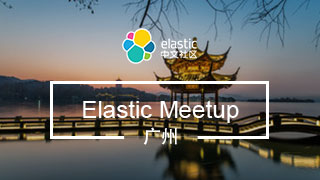
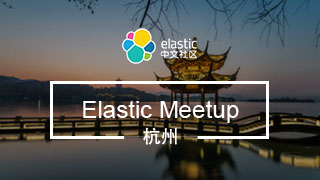
新增杭州4.27活动

diff --git a/event/hangzhou/1002.html b/event/hangzhou/1002.html
@@ -1,0 +1,253 @@
+<!DOCTYPE html>
+<html lang="zh-CN">
+<head>
+    <meta charset="utf-8">
+    <meta http-equiv="X-UA-Compatible" content="IE=edge,Chrome=1">
+    <meta name="viewport" content="width=device-width, initial-scale=1">
+    <meta name="renderer" content="webkit">
+    <meta name="keywords" content="Elastic Meetup 线下活动 elasticsearch Elastic 中文社区">
+    <meta name="description" content="Elastic Meetup 由 Elastic 中文社区(https://elasticsearch.cn/) 每年定期举办的线下交流活动，主要围绕 Elastic 的开源产品（Elasticsearch、Logstash、Kibana 和 Beats）及周边技术，探讨在搜索、数据实时分析、日志分析、安全等领域的实践与应用。">
+    <link rel="shortcut icon" type="image/png" href="/static/images/logo/elastic-logo-32x32.png">
+    <title>【杭州】Elastic&有赞科技 2019-04-27 - 活动详情页</title>
+
+    <link href="/static/bootstrap/css/bootstrap.min.css" rel="stylesheet">
+    <link href="/static/css/common.css" rel="stylesheet">
+    <link href="/static/css/event/detail.css" rel="stylesheet">
+
+    <!--[if lt IE 9]>
+    <script src="//cdn.bootcss.com/html5shiv/3.7.2/html5shiv.min.js"></script>
+    <script src="//cdn.bootcss.com/respond.js/1.4.2/respond.min.js"></script>
+    <![endif]-->
+</head>
+<body>
+<!-- 导航 start -->
+<nav class="navbar navbar-default navbar-custom navbar-white">
+    <div class="container">
+        <div class="navbar-header">
+            <button type="button" class="navbar-toggle collapsed" data-toggle="collapse" data-target="#navbar" aria-expanded="false" aria-controls="navbar">
+                <span class="icon-bar"></span>
+                <span class="icon-bar"></span>
+                <span class="icon-bar"></span>
+            </button>
+            <a class="navbar-brand elastic-logo" href="/">
+                <span>Elastic Meetup</span>
+            </a>
+        </div>
+        <div id="navbar" class="collapse navbar-collapse">
+            <ul class="nav navbar-nav navbar-right">
+                <li><a href="/event/index.html">首页</a></li>
+                <li><a href="/event/plan/index.html">年度计划</a></li>
+                <li><a href="/event/organizer.html">社区组织者</a></li>
+                <li><a href="/event/speaker/index.html">讲师榜单</a></li>
+                <li><a href="/event/about.html">关于我们</a></li>
+            </ul>
+        </div>
+    </div>
+</nav>
+<!-- 导航 end -->
+<div class="container event">
+    <div class="row">
+        <div class="col-md-9 left-side">
+            <div class="row item event-intro">
+                <div class="col-md-6">
+                    <div class="event-img">
+                        <img src="/static/images/city/hangzhou/hangzhou.jpg">
+                    </div>
+                </div>
+                <div class="col-md-6">
+                    <div class="event-content">
+                        <h3>【杭州】Elastic&有赞科技</h3>
+                        <div class="c-item">
+                            <span class="text-span">状态：</span>
+                            <span class="label label-info">主题征集中</span>
+                        </div>
+                        <div class="c-item">
+                            <span class="text-span">时间：</span>
+                            <span>2019-04-27</span>
+                        </div>
+                        <div class="c-item">
+                            <span class="text-span">地点：</span>
+                            <span>待定</span>
+                            <!--<a href="#mapContainer">-->
+                                <!--查看地图-->
+                            <!--</a>-->
+                        </div>
+                        <div class="c-item">
+                            <span class="text-span">费用：</span>
+                            <span>免费</span>
+                        </div>
+                        <div class="c-item">
+                            <span class="text-span">人数：</span>
+                            <span>限额100人</span>
+                        </div>
+                        <div class="c-item btn-gp">
+                            <!--<a href="javascript:void(0)" class="btn btn-default disabled">活动未开始</a>-->
+                            <!--<a target="_blank" href="http://www.huodongxing.com/event/5468520942500" class="btn btn-primary">立即报名</a>-->
+                            <a href="javascript:void(0)" class="btn btn-primary" onclick="alert('请联系活动组织者!')">演讲申请</a>
+                            <a target="_blank" href="http://elasticsearch.mikecrm.com/L5KnKcG" class="btn btn-primary">赞助合作</a>
+                            <!--<a href="javascript:void(0)" class="btn btn-danger">志愿者申请</a>-->
+                        </div>
+                    </div>
+                </div>
+            </div>
+            <!--主题介绍-->
+            <div class="row item">
+                <div class="col-md-12">
+                    <div class="title">
+                        <h3>主题介绍</h3>
+                    </div>
+                    <div class="des">
+                        <p>Elastic中文社区联合有赞科技，将于2019年4月27日，在杭州举办一次线下技术交流活动。 本次活动交流内容主要围绕Elastic的开源产品（Elasticsearch、Logstash、Kibana 和 Beats）及周边技术，探讨在搜索、数据实时分析、日志分析、安全等领域的实践与应用。 活动分享主题正火热征集中！</p>
+
+                        <p>有意参与本次主题分享的同学，请发送邮件至<strong>694851355@qq.com</strong>，并提供如下信息:</p>
+
+                        <p><strong>1.个人简介及联系方式（微信号、电话等均可）</strong></p>
+
+                        <p><strong>2.分享主题</strong></p>
+
+                        <p><strong>3.内容提纲</strong></p>
+
+                        <p>为确保本次活动的紧凑，分享主题将控制在5个以内。 部分同学提交的内容可能无法安排进本次活动日程，但我们将保留所有提交的主题，并尽力安排在后续的线下活动进行分享。</p>
+
+                        <p><strong>活动时间:</strong>  2019年3月30日</p>
+
+                        <p><strong>活动地址:</strong>  广州市海珠区唯品同创汇hobby lab cafe爱好者研究所</p>
+
+
+                    </div>
+                </div>
+            </div>
+            <!--嘉宾介绍-->
+            <div class="row item">
+                <div class="col-md-12">
+                    <div class="title">
+                        <h3>嘉宾介绍</h3>
+                    </div>
+                    <div class="des">
+                        <p>待更新</p>
+                    </div>
+                </div>
+            </div>
+            <!--活动安排-->
+            <div class="row item">
+                <div class="col-md-12">
+                    <div class="title">
+                        <h3>活动安排</h3>
+                    </div>
+                    <div class="des">
+                        <p>待更新</p>
+                    </div>
+                </div>
+            </div>
+            <!--注意事项-->
+            <div class="row item">
+                <div class="col-md-12">
+                    <div class="title">
+                        <h3>注意事项</h3>
+                    </div>
+                    <div class="des">
+                        <p>1.本次活动限额100人</p>
+                        <!--<p>2.本次活动是下午场，请已报名的同学准时参加</p>-->
+                    </div>
+                </div>
+            </div>
+            <!--合作伙伴-->
+            <div class="row item">
+                <div class="col-md-12">
+                    <div class="title">
+                        <h3>合作伙伴</h3>
+                    </div>
+                    <div class="des">
+                        <div class="sponsor">
+                            <h4>主办方</h4>
+                            <ul>
+                                <li>
+                                    <a target="_blank" href="https://elasticsearch.cn">
+                                        <img src="/static/images/sponsors/elastic_cn.jpg" title="Elastic中文社区">
+                                    </a>
+                                </li>
+                                <li>
+                                    <a target="_blank" href="https://www.youzan.com">
+                                        <img src="/static/images/sponsors/youzan.png" title="有赞科技">
+                                    </a>
+                                </li>
+                            </ul>
+                        </div>
+                        <div class="sponsor">
+                            <h4>合作伙伴</h4>
+                            <ul>
+                                <li>
+                                    <p>待更新</p>
+                                </li>
+                            </ul>
+                        </div>
+                    </div>
+                </div>
+            </div>
+            <!--活动精彩瞬间-->
+
+            <!--地点路线-->
+            <div class="row item">
+                <div class="col-md-12">
+                    <div class="title">
+                        <h3>地点路线</h3>
+                    </div>
+                    <div class="des">
+                        <p class="map-address-city" style="display: none">杭州市</p>
+                        <p class="map-address-des">待定</p>
+                        <!--<div class="map" id="mapContainer"></div>-->
+                    </div>
+                </div>
+            </div>
+        </div>
+        <div class="col-md-3 right-side">
+            <div class="panel-block bg-white">
+                <h4 class="text-center">分享，交流，成长！</h4>
+                <p>知识越与人共享，它的价值越增加。</p>
+                <div class="text-center">
+                    <a class="btn btn-primary signup-share" target="_blank" href="http://elasticsearch.mikecrm.com/A6QbFvU">报名分享</a>
+                </div>
+            </div>
+            <div class="panel-block bg-white">
+                <h4 class="text-center">活动组织者</h4>
+                <div class="media">
+                    <div class="media-left">
+                        <a class="media-avatar" href="javascript:void(0);">
+                            <img class="media-object" src="/static/images/organizer/wx.jpg" >
+                        </a>
+                    </div>
+                    <div class="media-body">
+                        <h4 class="media-heading">汪兴</h4>
+                        <div>微信：<strong>13588245335</strong></div>
+                        <div>邮箱：<strong>694851355@qq.com</strong></div>
+                    </div>
+                </div>
+                <p>简介：从前端到移动端到后台到大数据到业务到框架，回看了自己的路程，不一定非常深入，但是充满了故事，有故事的技术之路才会好玩才会精彩。</p>
+
+            </div>
+            <!--<div class="panel-block bg-white ad">-->
+                <!--<a target="_blank" title="2018 Elastic 中国开发者大会" href="https://conf.elasticsearch.cn/2018/shenzhen.html">-->
+                    <!--<img src="/static/images/ad/elastic_2018.png">-->
+                <!--</a>-->
+            <!--</div>-->
+        </div>
+    </div>
+</div>
+<!-- 底部 start -->
+<footer class="footer">
+    <div class="container">
+        Copyright © <script>document.write(new Date().getFullYear());</script> <span> · <a href="https://elasticsearch.cn/" target="blank">Elastic中文社区</a></span>
+    </div>
+</footer>
+<!-- 底部 end -->
+
+<script src="/static/bootstrap/js/jquery.min.js"></script>
+<script src="/static/bootstrap/js/bootstrap.min.js"></script>
+<!--<script type="text/javascript" src="//api.map.baidu.com/api?v=3.0&ak=DDU325vxk16zPn6DKlS6Qffx"></script>-->
+<!--<script src="/static/js/map.js"></script>-->
+<script>
+    // $('.carousel').carousel();
+</script>
+
+</body>
+</html>

diff --git a/event/index.html b/event/index.html
@@ -143,6 +143,24 @@
                 </div>
             </div>
         </div>
+        <div class="col-xs-12 col-sm-6 col-md-3">
+            <div class="thumbnail">
+                <a href="hangzhou/1002.html"><img src="/static/images/city/hangzhou/hangzhou.jpg"></a>
+                <div class="caption">
+                    <h4><a href="hangzhou/1002.html">【杭州】Elastic&有赞科技</a></h4>
+                    <div class="single-line">时间：<strong>2019-04-27</strong></div>
+                    <div class="single-line">地点：待定</div>
+                    <div class="event-state">
+                        状态：
+                        <!--<span class="label label-default">活动未开始</span>-->
+                        <span class="label label-info">主题征集中</span>
+                        <!--<span class="label label-success">活动报名中</span>-->
+                        <a class="btn btn-primary btn-sm pull-right" href="hangzhou/1002.html">查看详情</a>
+                        <!--<a class="btn btn-success btn-sm pull-right" target="_blank" href="https://www.bagevent.com/event/1654637">立即报名</a>-->
+                    </div>
+                </div>
+            </div>
+        </div>
     </div>
 
     <div class="row bg-white">

diff --git a/event/plan/2019.html b/event/plan/2019.html
@@ -191,10 +191,16 @@
                             </td>
                         </tr>
                         <tr>
-                            <td class="date">2019-04-13</td>
+                            <td class="date">2019-04-27</td>
                             <td class="address">待定</td>
-                            <td class="state">敬请期待</td>
-                            <td class="partner"><a target="_blank" href="http://elasticsearch.mikecrm.com/L5KnKcG" class="btn btn-primary">立即申请</a></td>
+                            <td class="state">
+                                <a href="/event/hangzhou/1002.html" class="btn btn-success">查看详情</a>
+                            </td>
+                            <td class="partner">
+                                <a target="_blank" href="https://www.youzan.com">
+                                    <img src="/static/images/sponsors/youzan.png">
+                                </a>
+                            </td>
                         </tr>
                         <tr>
                             <td class="date">2019-08-17</td>
